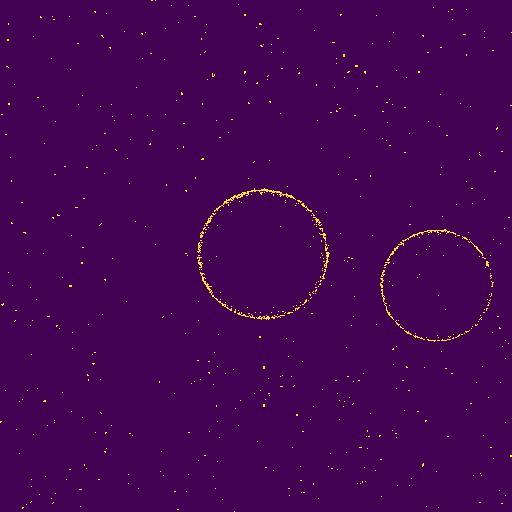
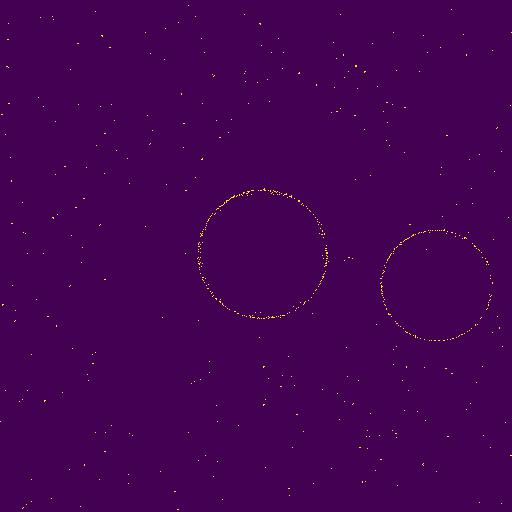
halo detect

diff --git a/halo_intensity.py b/halo_intensity.py
@@ -33,29 +33,38 @@ def get_maxima(max_nbsize, min_nbsize, threshold):
     diff = ((data_max-data_min)>threshold)
     maxima[diff==0] = 0
     plt.imshow(maxima, cmap='gray', vmin=0,vmax=0.1)
-    #plt.imsave('maxima.jpg', maxima)
+    plt.imsave('maxima.jpg', maxima)
 
+#edge detect for enhanced method
 
+img = cv.imread('enhanced.jpg',0)
+img = cv.medianBlur(img,5)
+cimg = cv.cvtColor(img,cv.COLOR_GRAY2BGR)
+circles = cv.HoughCircles(img,cv.HOUGH_GRADIENT,1,20,param1=50,param2=30,minRadius=0,maxRadius=0)
+circles = circles = np.uint16(np.around(circles))
 
-# img = cv.imread()
+for i in circles[0,:]:
+    # draw the outer circle
+    cv.circle(cimg,(i[0],i[1]),i[2],(0,255,0),2)
+    # draw the center of the circle
+    cv.circle(cimg,(i[0],i[1]),2,(0,0,255),3)
 
+plt.imshow(cimg)
 
+# # edge detect for filter method
 
+# img = cv.imread('maxima.jpg',0)
+# # img = cv.medianBlur(img,5)
+# edge = cv.Canny(img,170,200)
+# cimg = cv.cvtColor(img,cv.COLOR_GRAY2BGR)
+# circles = cv.HoughCircles(img,cv.HOUGH_GRADIENT,1,20,param1=50,param2=30,minRadius=0,maxRadius=0)
+# circles = circles = np.uint16(np.around(circles))
 
-# maxima = cv.imread('maxima.jpg')
-# output = maxima.copy()
-# img = cv.cvtColor(maxima, cv.COLOR_BGR2GRAY)
-# # Find circles
-# circles = cv.HoughCircles(img, cv.HOUGH_GRADIENT, 1.3, 100)
-# # If some circle is found
-# if circles is not None:
-#     # Get the (x, y, r) as integers
-#     circles = np.round(circles[0, :]).astype("int")
-#     print(circles)
-#     # loop over the circles
-#     for (x, y, r) in circles:
-#       cv.circle(output, (x, y), r, (0, 255, 0), 2)
-# # show the output image
-# cv.imshow("circle",output)
+# for i in circles[0,:]:
+#     # draw the outer circle
+#     cv.circle(cimg,(i[0],i[1]),i[2],(0,255,0),2)
+#     # draw the center of the circle
+#     cv.circle(cimg,(i[0],i[1]),2,(0,0,255),3)
 
-# # Find circle
+# plt.imshow(cimg)
+
